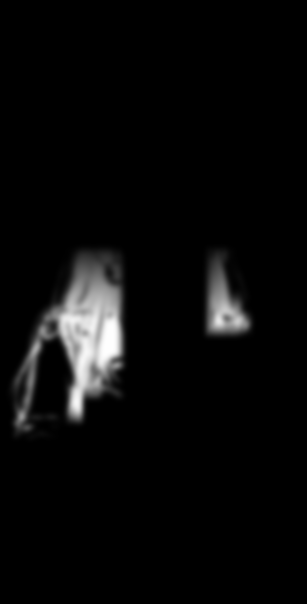
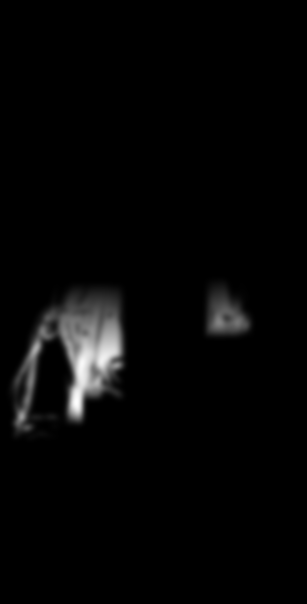
머리카락 흔들림에서 얼굴 피부 제외, 흔들림 시작을 턱 아래로
Claude-Session: https://claude.ai/code/session_015z2jERGhkXRnxmKCmzk3Uw

Changed region(s): [[0.1466, 0.4172, 0.4104, 0.596], [0.645, 0.4172, 0.8208, 0.5662]]

diff --git a/tools/celeste_parts.py b/tools/celeste_parts.py
@@ -30,9 +30,9 @@ FACE_EDITS = [('eyes_closed', 'eyes_closed_edit.png', EYES),
               ('face_frown', 'face_frown_edit.png', MOUTH + BROWS)]
 NAILS_Y = 1620                           # 이보다 아래의 파란색은 손톱(+머리끝)
 # 흔들리는 머리카락 구역 (반 크기 좌표): x0, x1, y0, y1, 뿌리 y
-SWAY_ZONES = [(180, 500, 980, 1700, 960),     # 왼쪽 어깨 앞으로 흘러내린 머리
-              (30, 240, 1080, 1760, 1000),    # 왼쪽 바깥 가는 머리
-              (820, 1010, 980, 1350, 960)]    # 오른쪽 어깨 위 머리
+SWAY_ZONES = [(180, 500, 1060, 1700, 1130),   # 왼쪽 어깨 앞으로 흘러내린 머리 (턱 아래부터)
+              (30, 240, 1080, 1760, 1060),    # 왼쪽 바깥 가는 머리
+              (820, 1010, 1060, 1350, 1110)]  # 오른쪽 어깨 위 머리
 
 
 def cutout(img):
@@ -137,6 +137,14 @@ def main():
         sway = np.maximum(sway, z * np.clip((yy - root) / 320, 0, 1))
     sway *= 1 - np.clip((yy - 1540) / 60, 0, 1) * (xx > 330)          # 뷔스티에는 빼기
     sway = cv2.GaussianBlur(sway * cv2.GaussianBlur(hairpx, (0, 0), 6), (0, 0), 10)
+    # 얼굴 피부는 절대 흔들리지 않게 (밝은 피부 덩어리를 넉넉히 키워서 뺀다)
+    skin = np.zeros((H, Wd), np.uint8)
+    fz = (cv2.cvtColor(col, cv2.COLOR_BGR2GRAY) > 190) & (a > .5)
+    skin[fy0:fy1, fx0:fx1] = fz[fy0:fy1, fx0:fx1]
+    n_, lab_, st_, _ = cv2.connectedComponentsWithStats(skin)
+    face = (lab_ == 1 + int(np.argmax(st_[1:, 4]))).astype(np.uint8)
+    face = cv2.dilate(face, np.ones((45, 45), np.uint8))
+    sway *= 1 - cv2.GaussianBlur(face.astype(np.float32), (0, 0), 12)
     sway /= max(sway.max(), 1e-6)
     cv2.imwrite(str(OUT / 'sway.png'), cv2.resize((sway * 255).astype(np.uint8), (Wd // 4, H // 4), interpolation=cv2.INTER_AREA))
 
